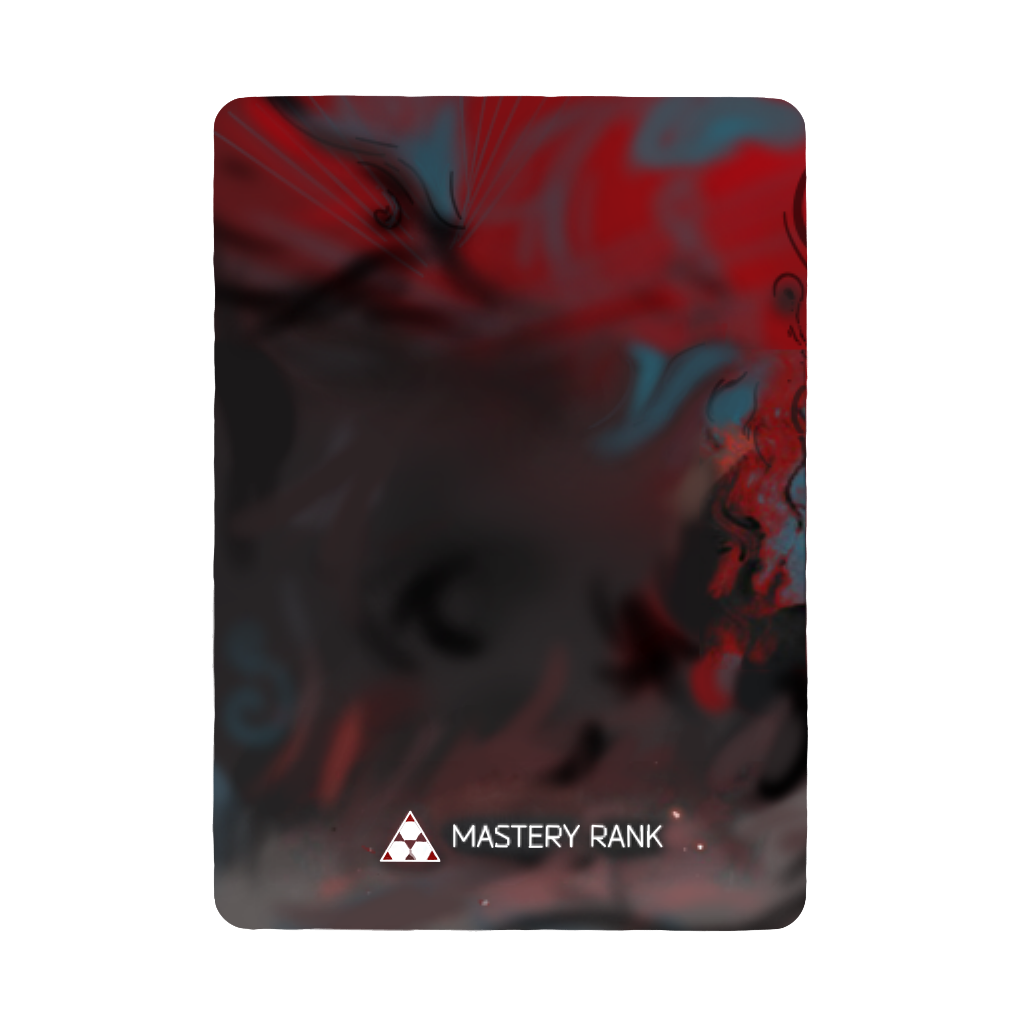
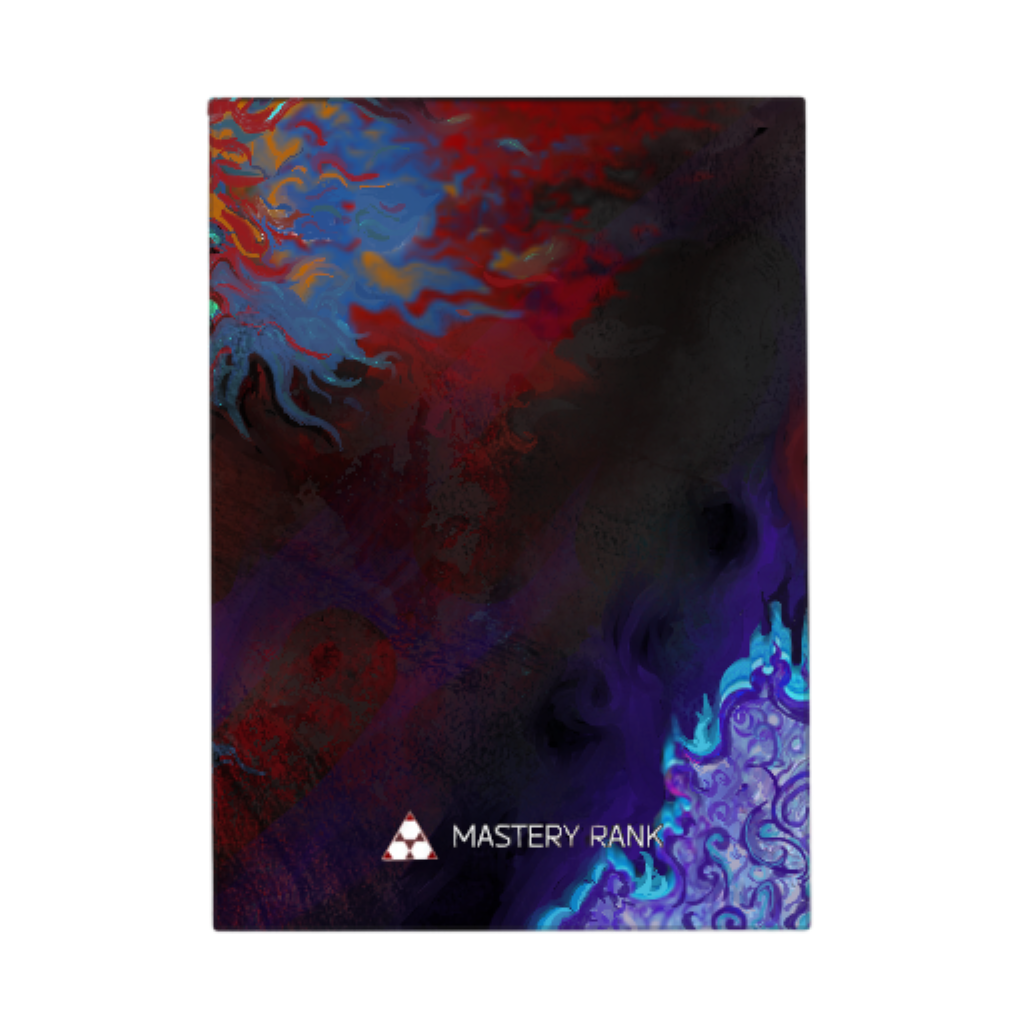
加了卡面和关键词修了bug

diff --git a/wsde/src/main/java/wishdalmod/actions/ShengjiAction.java b/wsde/src/main/java/wishdalmod/actions/ShengjiAction.java
@@ -13,8 +13,9 @@ import com.megacrit.cardcrawl.vfx.cardManip.ShowCardBrieflyEffect;
 import com.megacrit.cardcrawl.vfx.combat.FlashAtkImgEffect;
 
 import java.util.ArrayList;
+import java.util.Collections;
 import java.util.Iterator;
-
+import java.util.Random;
 
 public class ShengjiAction extends AbstractGameAction {
     private DamageInfo info;
@@ -26,50 +27,44 @@ public class ShengjiAction extends AbstractGameAction {
         this.actionType = ActionType.DAMAGE;
         this.duration = Settings.ACTION_DUR_MED;
     }
-
     public void update() {
         if (this.duration == Settings.ACTION_DUR_MED) {
             if (this.target != null) {
                 AbstractDungeon.effectList.add(new FlashAtkImgEffect(this.target.hb.cX, this.target.hb.cY, AttackEffect.NONE));
                 this.target.damage(this.info);
-                if ((((AbstractMonster)this.target).isDying || this.target.currentHealth <= 0) && !this.target.halfDead && !this.target.hasPower("Minion")) {
+                if ((((AbstractMonster) this.target).isDying || this.target.currentHealth <= 0) && !this.target.halfDead && !this.target.hasPower("Minion")) {
                     ArrayList<AbstractCard> possibleCards = new ArrayList();
                     Iterator var2 = AbstractDungeon.player.masterDeck.group.iterator();
 
-                    while(var2.hasNext()) {
-                        AbstractCard c = (AbstractCard)var2.next();
+                    while (var2.hasNext()) {
+                        AbstractCard c = (AbstractCard) var2.next();
                         if (c.canUpgrade()) {
                             possibleCards.add(c);
                         }
                     }
-
-                    if (possibleCards.size() >= 2) {
-                        AbstractCard card1 = possibleCards.get(AbstractDungeon.miscRng.random(0, possibleCards.size() - 1));
-                        AbstractCard card2 = possibleCards.get(AbstractDungeon.miscRng.random(0, possibleCards.size() - 1));
-                        while (card2 == card1) {
-                            card2 = possibleCards.get(AbstractDungeon.miscRng.random(0, possibleCards.size() - 1));
+                    Collections.shuffle(possibleCards, new Random(AbstractDungeon.miscRng.randomLong()));
+                    if (!possibleCards.isEmpty()) {
+                        if (possibleCards.size() == 1) {
+                            ((AbstractCard) possibleCards.get(0)).upgrade();
+                            AbstractDungeon.player.bottledCardUpgradeCheck((AbstractCard) possibleCards.get(0));
+                            AbstractDungeon.topLevelEffects.add(new ShowCardBrieflyEffect(((AbstractCard) possibleCards.get(0)).makeStatEquivalentCopy()));
+                            AbstractDungeon.topLevelEffects.add(new UpgradeShineEffect((float) Settings.WIDTH / 2.0F, (float) Settings.HEIGHT / 2.0F));
+                        } else {
+                            ((AbstractCard) possibleCards.get(0)).upgrade();
+                            ((AbstractCard) possibleCards.get(1)).upgrade();
+                            AbstractDungeon.player.bottledCardUpgradeCheck((AbstractCard) possibleCards.get(0));
+                            AbstractDungeon.player.bottledCardUpgradeCheck((AbstractCard) possibleCards.get(1));
+                            AbstractDungeon.topLevelEffects.add(new ShowCardBrieflyEffect(((AbstractCard) possibleCards.get(0)).makeStatEquivalentCopy(), (float) Settings.WIDTH / 2.0F - AbstractCard.IMG_WIDTH / 2.0F - 20.0F * Settings.scale, (float) Settings.HEIGHT / 2.0F));
+                            AbstractDungeon.topLevelEffects.add(new ShowCardBrieflyEffect(((AbstractCard) possibleCards.get(1)).makeStatEquivalentCopy(), (float) Settings.WIDTH / 2.0F + AbstractCard.IMG_WIDTH / 2.0F + 20.0F * Settings.scale, (float) Settings.HEIGHT / 2.0F));
+                            AbstractDungeon.topLevelEffects.add(new UpgradeShineEffect((float) Settings.WIDTH / 2.0F, (float) Settings.HEIGHT / 2.0F));
                         }
-                        card1.upgrade();
-                        card2.upgrade();
-                        AbstractDungeon.player.bottledCardUpgradeCheck(card1);
-                        AbstractDungeon.player.bottledCardUpgradeCheck(card2);
-
-                        // 更新theCard为最后升级的卡片
-                        this.theCard = card2; // 或者 this.theCard = card1;
-                    } else if (possibleCards.size() == 1) {
-                        AbstractCard card = possibleCards.get(0);
-                        card.upgrade();
-                        AbstractDungeon.player.bottledCardUpgradeCheck(card);
-                        this.theCard = card;
                     }
-                }
-
-                if (AbstractDungeon.getCurrRoom().monsters.areMonstersBasicallyDead()) {
-                    AbstractDungeon.actionManager.clearPostCombatActions();
+                    if (AbstractDungeon.getCurrRoom().monsters.areMonstersBasicallyDead()) {
+                        AbstractDungeon.actionManager.clearPostCombatActions();
+                    }
                 }
             }
         }
-
         this.tickDuration();
         if (this.isDone && this.theCard != null) {
             AbstractDungeon.effectsQueue.add(new UpgradeShineEffect((float)Settings.WIDTH / 2.0F, (float)Settings.HEIGHT / 2.0F));

diff --git a/wsde/src/main/java/wishdalmod/modcore/WishdaleMod.java b/wsde/src/main/java/wishdalmod/modcore/WishdaleMod.java
@@ -2,8 +2,10 @@ package wishdalmod.modcore;
 
 import basemod.BaseMod;
 import basemod.interfaces.*;
+import com.badlogic.gdx.Gdx;
 import com.badlogic.gdx.graphics.Color;
 import com.evacipated.cardcrawl.modthespire.lib.SpireInitializer;
+import com.google.gson.Gson;
 import com.megacrit.cardcrawl.core.CardCrawlGame;
 import com.megacrit.cardcrawl.core.Settings;
 import com.megacrit.cardcrawl.localization.*;
@@ -12,11 +14,15 @@ import wishdalmod.characters.EW;
 import wishdalmod.helpers.ModConfig;
 import wishdalmod.relics.*;
 
+import java.nio.charset.StandardCharsets;
+
+import static basemod.BaseMod.gson;
+import static com.megacrit.cardcrawl.core.Settings.language;
 import static wishdalmod.characters.EW.PlayerColorEnum.WISHDALE_RED;
 import static wishdalmod.characters.EW.PlayerColorEnum.WISHDALE_ZC;
 
 @SpireInitializer
-public class WishdaleMod implements EditCardsSubscriber, EditStringsSubscriber, EditCharactersSubscriber, EditRelicsSubscriber,  PostInitializeSubscriber,AddAudioSubscriber{
+public class WishdaleMod implements EditCardsSubscriber,EditStringsSubscriber,EditCharactersSubscriber,EditRelicsSubscriber,PostInitializeSubscriber,AddAudioSubscriber,EditKeywordsSubscriber{
     public static final String MY_CHARACTER_BUTTON = "wishdaleResources/images/char/Character_Button.png";
     public static final String MY_CHARACTER_PORTRAIT = "wishdaleResources/images/char/Character_Portrait.png";
     public static final String BG_ATTACK_512 = "wishdaleResources/images/512/bg_attack_512.png";
@@ -108,7 +114,20 @@ public class WishdaleMod implements EditCardsSubscriber, EditStringsSubscriber, 
         BaseMod.addCharacter(new EW(CardCrawlGame.playerName), MY_CHARACTER_BUTTON, MY_CHARACTER_PORTRAIT, WISHDALE_ZC);
 
     }
-
+    public void receiveEditKeywords() {
+        Gson gson = new Gson();
+        String lang = "ENG";
+        if (language == Settings.GameLanguage.ZHS) {
+                lang = "ZHS";
+        }
+            String json = Gdx.files.internal("wishdaleResources/localization/"+lang+"/keywords.json").readString(String.valueOf(StandardCharsets.UTF_8));
+        Keyword[] keywords = gson.fromJson(json, Keyword[].class);
+        if (keywords != null) {
+            for (Keyword keyword : keywords) {
+                BaseMod.addKeyword("wishdalemod", keyword.NAMES[0], keyword.NAMES, keyword.DESCRIPTION);
+            }
+        }
+    }
     public void receiveEditStrings() {
         String lang;
         if (Settings.language == Settings.GameLanguage.ZHS) {
@@ -116,12 +135,12 @@ public class WishdaleMod implements EditCardsSubscriber, EditStringsSubscriber, 
         } else {
             lang = "ENG";
         }
-        BaseMod.loadCustomStringsFile(CardStrings.class, "wishdaleResources/localization/ZHS/cards.json");
-        BaseMod.loadCustomStringsFile(CharacterStrings.class, "wishdaleResources/localization/ZHS/characters.json");
-        BaseMod.loadCustomStringsFile(RelicStrings.class, "wishdaleResources/localization/ZHS/relics.json");
-        BaseMod.loadCustomStringsFile(PowerStrings.class, "wishdaleResources/localization/ZHS/powers.json");
-        BaseMod.loadCustomStringsFile(UIStrings.class, "wishdaleResources/localization/ZHS/ui.json");
-        //用lang会卡面没描述，不知道为什么先不管
+        BaseMod.loadCustomStringsFile(CardStrings.class, "wishdaleResources/localization/"+lang+"/cards.json");
+        BaseMod.loadCustomStringsFile(CharacterStrings.class, "wishdaleResources/localization/"+lang+"/characters.json");
+        BaseMod.loadCustomStringsFile(RelicStrings.class, "wishdaleResources/localization/"+lang+"/relics.json");
+        BaseMod.loadCustomStringsFile(PowerStrings.class, "wishdaleResources/localization/"+lang+"/powers.json");
+        BaseMod.loadCustomStringsFile(UIStrings.class, "wishdaleResources/localization/"+lang+"/ui.json");
+
     }
     public void receiveEditRelics() {
         BaseMod.addRelicToCustomPool(new wishdalebadge(), WISHDALE_RED);

diff --git a/wsde/src/main/java/wishdalmod/cards/Zixuechengcai.java b/wsde/src/main/java/wishdalmod/cards/Zixuechengcai.java
@@ -1,13 +1,15 @@
 package wishdalmod.cards;
-//3场战斗后从牌组移除 75块钱 不足扣遗物
-//3费打1，斩杀升级所有牌
+
 import basemod.abstracts.CustomCard;
 import com.megacrit.cardcrawl.cards.AbstractCard;
 import com.megacrit.cardcrawl.cards.DamageInfo;
 import com.megacrit.cardcrawl.characters.AbstractPlayer;
 import com.megacrit.cardcrawl.core.CardCrawlGame;
+import com.megacrit.cardcrawl.core.Settings;
+import com.megacrit.cardcrawl.dungeons.AbstractDungeon;
 import com.megacrit.cardcrawl.localization.CardStrings;
 import com.megacrit.cardcrawl.monsters.AbstractMonster;
+import com.megacrit.cardcrawl.vfx.cardManip.PurgeCardEffect;
 import wishdalmod.actions.ShengjiAction;
 import wishdalmod.helpers.ModHelper;
 
@@ -31,7 +33,9 @@ public class Zixuechengcai extends CustomCard {
         this.isMultiDamage = true;
         this.baseDamage = 12;
         this.tags.add(CardTags.HEALING);
+        this.magicNumber = this.baseMagicNumber = 3;
     }
+
     public void triggerOnGlowCheck() {
         if (this.useTimes == 2) {
             this.glowColor = AbstractCard.GREEN_BORDER_GLOW_COLOR.cpy();
@@ -40,6 +44,25 @@ public class Zixuechengcai extends CustomCard {
         }
     }
     public void use(AbstractPlayer p, AbstractMonster m) {
+        upgradeMagicNumber(-1);
+        applyPowers();
+        for (AbstractCard caa : AbstractDungeon.player.masterDeck.group) {
+            if (caa.uuid == this.uuid) {
+                caa.baseMagicNumber = caa.magicNumber = this.magicNumber;
+                this.upgradedMagicNumber = true;
+                if (caa.magicNumber == 0) {
+                    caa.untip();
+                    caa.unhover();
+                    AbstractDungeon.topLevelEffects.add(new PurgeCardEffect(caa, Settings.WIDTH / 2.0F, Settings.HEIGHT / 2.0F));
+                    AbstractDungeon.player.masterDeck.removeCard(caa); break;
+                }
+                caa.applyPowers();
+                break;
+            }
+        }
+        if (this.baseMagicNumber == 0) {
+            this.exhaust = true;
+        }
         this.useTimes++;
         if (this.useTimes == 3) {
             this.exhaust = true;

diff --git a/wsde/src/main/java/wishdalmod/characters/EW.java b/wsde/src/main/java/wishdalmod/characters/EW.java
@@ -86,6 +86,7 @@ public class EW extends CustomPlayer {
         retVal.add("wishdalemod:Defend");
         retVal.add("wishdalemod:Defend");
         retVal.add("wishdalemod:Defend");
+        retVal.add("wishdalemod:Dindianqingsuan");
         return retVal;
     }
     // 初始遗物的ID
@@ -98,8 +99,8 @@ public class EW extends CustomPlayer {
         return new CharSelectInfo(
                 characterStrings.NAMES[0], // 人物名字
                 characterStrings.TEXT[0], // 人物介绍
-                49, // 当前血量
-                49, // 最大血量
+                47, // 当前血量
+                47, // 最大血量
                 0, // 初始充能球栏位
                 99, // 初始携带金币
                 5, // 每回合抽牌数量
@@ -130,7 +131,7 @@ public class EW extends CustomPlayer {
     }
     // 高进阶带来的生命值损失
     public int getAscensionMaxHPLoss() {
-        return 10;
+        return 9;
     }
     // 卡牌的能量字体，没必要修改
     public BitmapFont getEnergyNumFont() {

diff --git a/wsde/src/main/java/wishdalmod/cards/Lingguangyishan.java b/wsde/src/main/java/wishdalmod/cards/Lingguangyishan.java
@@ -7,6 +7,7 @@ import com.megacrit.cardcrawl.characters.AbstractPlayer;
 import com.megacrit.cardcrawl.core.CardCrawlGame;
 import com.megacrit.cardcrawl.localization.CardStrings;
 import com.megacrit.cardcrawl.monsters.AbstractMonster;
+import wishdalmod.actions.LinguangyishanAction;
 import wishdalmod.helpers.ModHelper;
 
 import static wishdalmod.characters.EW.PlayerColorEnum.WISHDALE_RED;
@@ -27,7 +28,7 @@ public class Lingguangyishan extends CustomCard {
         this.exhaust = true;
     }
     public void use(AbstractPlayer p, AbstractMonster m) {
-        this.addToBot(new ForeignInfluenceAction(this.upgraded));
+        this.addToBot(new LinguangyishanAction(p));
     }
 
     public void upgrade() {

diff --git a/wsde/src/main/java/wishdalmod/cards/Baolieliming.java b/wsde/src/main/java/wishdalmod/cards/Baolieliming.java
@@ -32,12 +32,13 @@ public class Baolieliming extends CustomCard {
 
     public void use(AbstractPlayer p, AbstractMonster m) {
         this.addToBot(new ApplyPowerAction(p, p, new BaolielimingPower(p, this.magicNumber), this.magicNumber));
+        CardCrawlGame.sound.play("BOOM");
     }
 
     public void upgrade() {
         if (!this.upgraded) {
             this.upgradeName();
-            this.upgradeBaseCost(4);  // 升级后减少费用
+            this.upgradeBaseCost(4);
         }
     }
 
